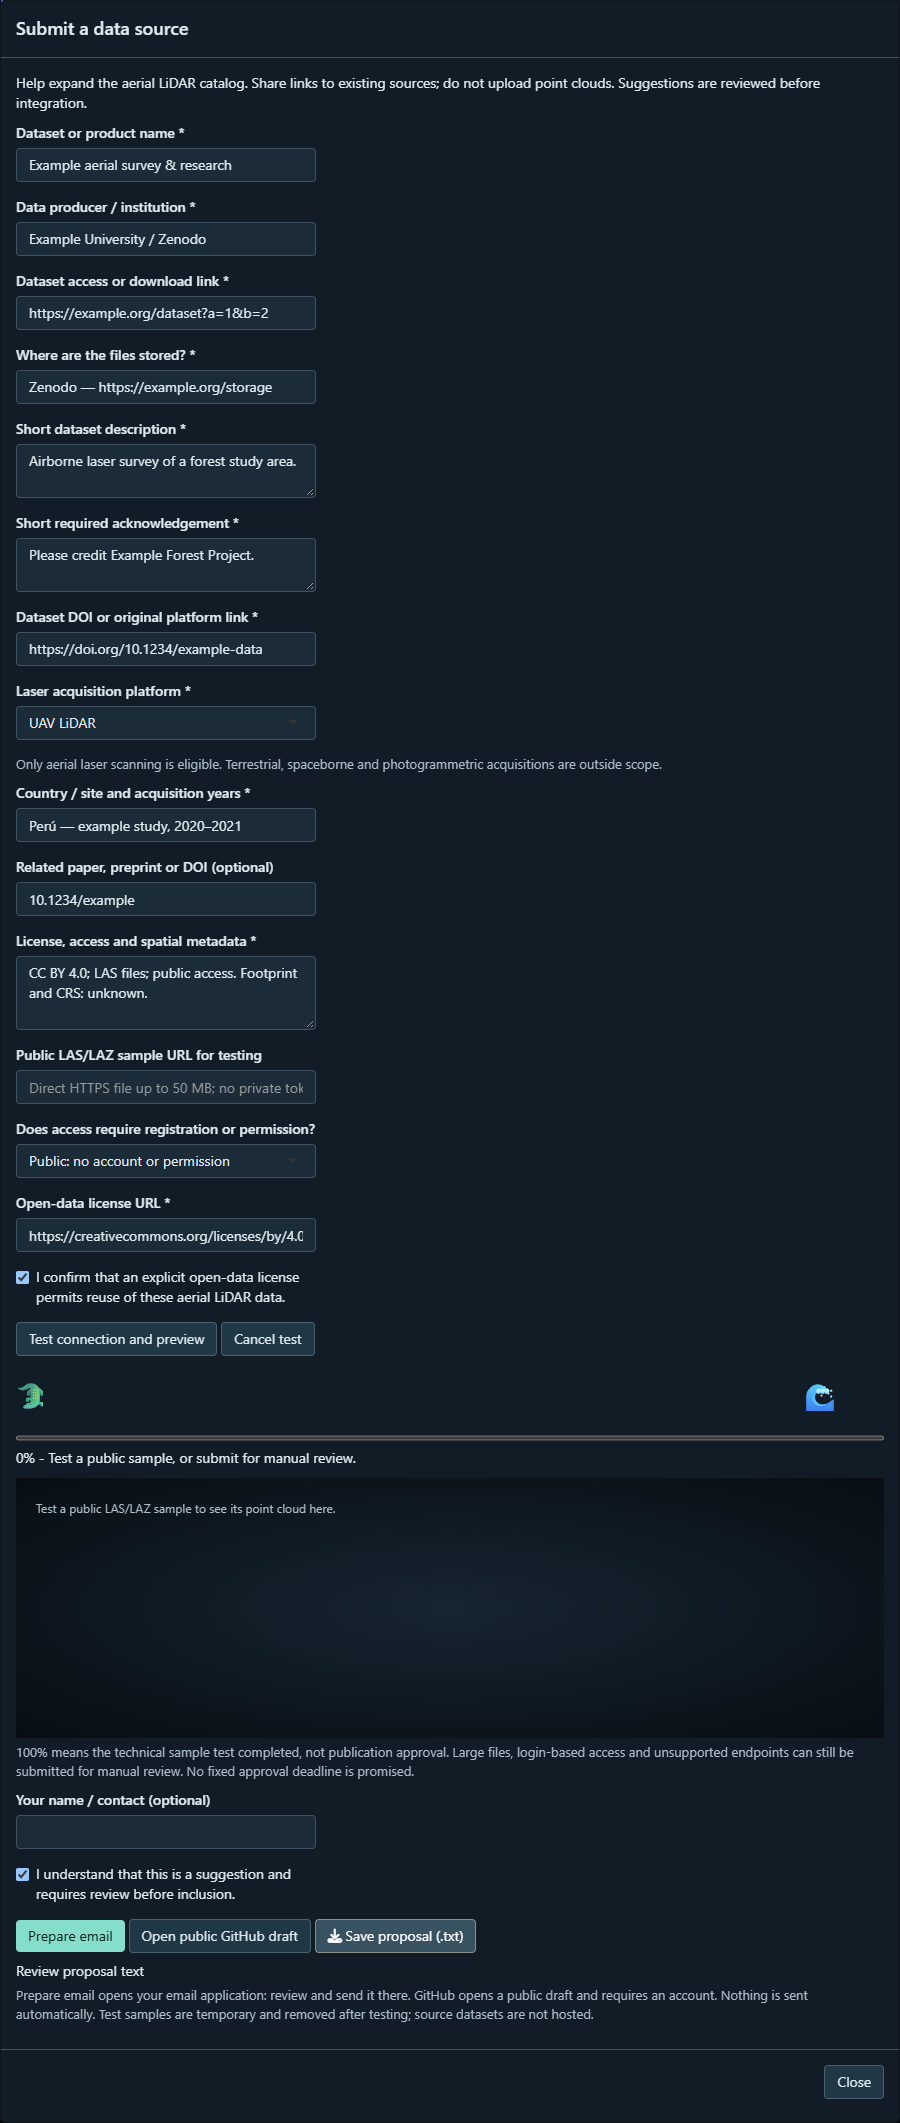
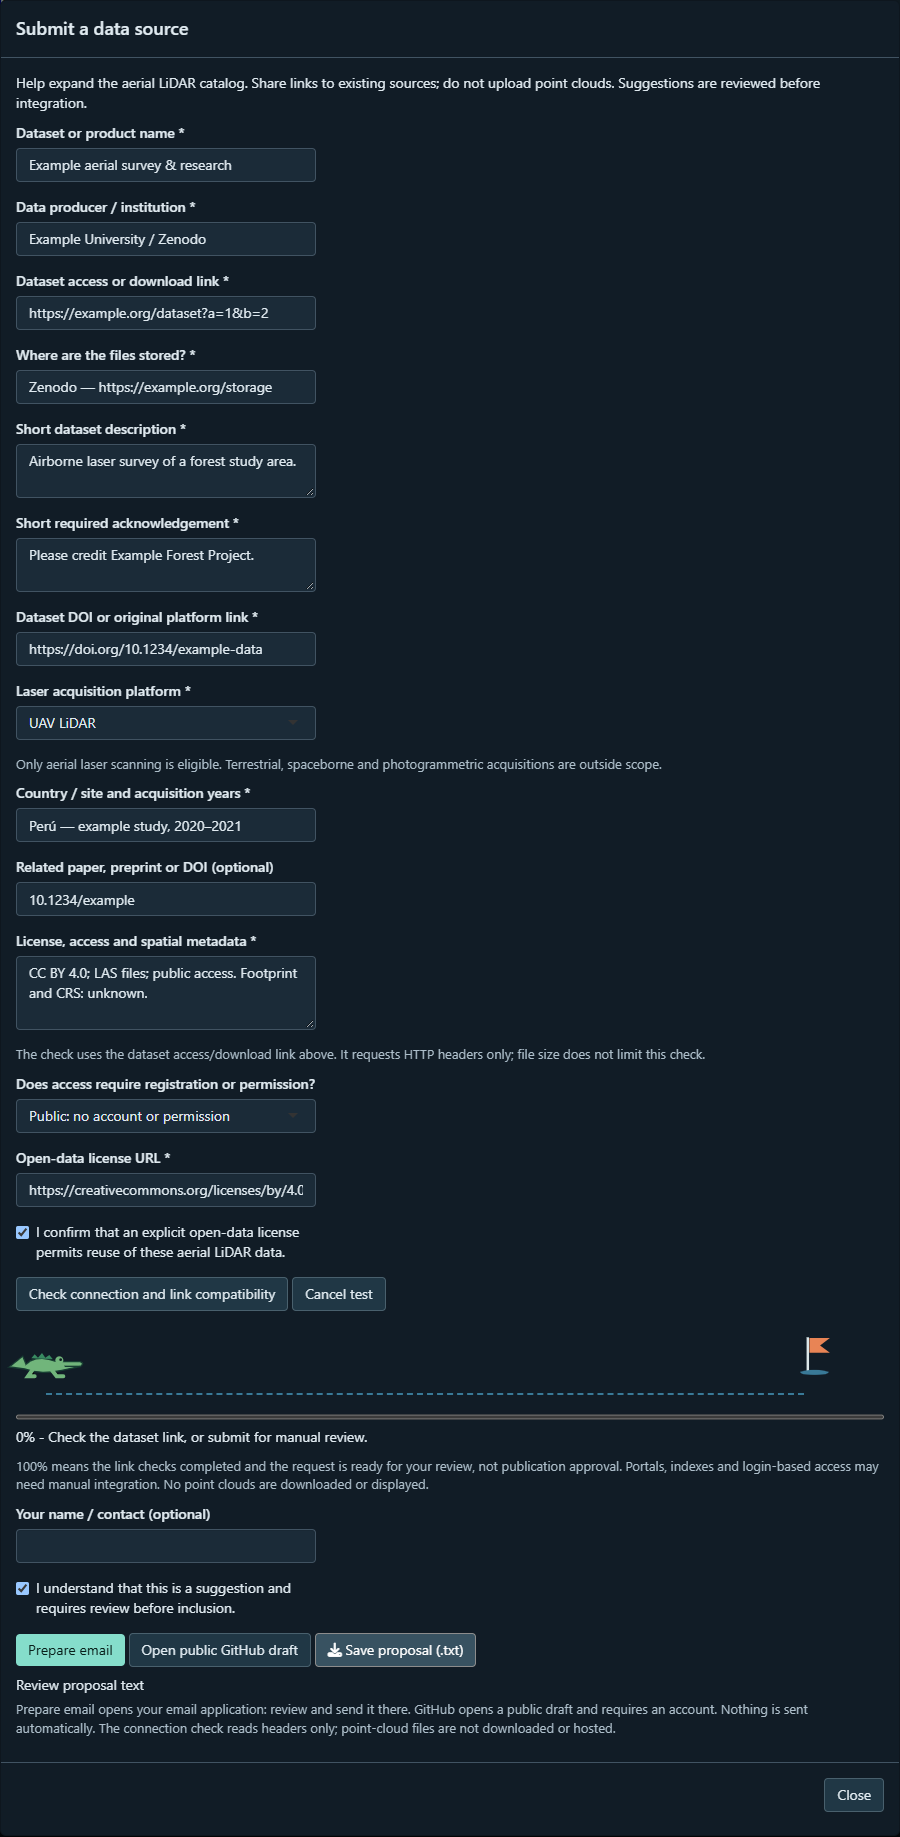
Simplify source preflight to header-only checks with vector alligator

diff --git a/inst/app/www/preview.js b/inst/app/www/preview.js
@@ -13,7 +13,6 @@
     let groups=[],paletteB='Magma',showA=true,showB=true;
     let initialPitch=1.08,pointSize=1.8;
     if(comparison){palette='Grey';paletteB='Black';exag=1;}
-    if(c.id==='als-source-cloud'){exag=1;initialPitch=1.38;}
     function draw() {
       if (!c.clientWidth) return;
       const w=c.clientWidth,h=c.clientHeight,dpr=Math.min(devicePixelRatio||1,2);
@@ -21,7 +20,7 @@
       const ctx=c.getContext('2d');ctx.scale(dpr,dpr);
       if(comparison){ctx.fillStyle='#ffffff';ctx.fillRect(0,0,w,h);}
       ctx.fillStyle=comparison?'#424242':'#adbeca';ctx.font='12px system-ui';
-      if(!points.length){ctx.fillText(comparison?'Choose two overlapping clouds to view together.':c.id==='als-source-cloud'?'Test a public LAS/LAZ sample to see its point cloud here.':'Select a tile to plot, or upload a local point cloud in 3D preview.',20,35);return;}
+      if(!points.length){ctx.fillText(comparison?'Choose two overlapping clouds to view together.':'Select a tile to plot, or upload a local point cloud in 3D preview.',20,35);return;}
       const co=Math.cos(yaw),si=Math.sin(yaw),cp=Math.cos(pitch),sp=Math.sin(pitch);
       let xmin=Infinity,xmax=-Infinity,ymin=Infinity,ymax=-Infinity;
       const ordered=points.map((p,index)=>{
@@ -90,15 +89,7 @@
     const compact=matchMedia('(max-width:850px)');
     function layout(){const sidebar=document.querySelector('.als-sidebar');if(sidebar)sidebar.open=!compact.matches;}
     compact.addEventListener('change',layout);layout();
-    let sourceCanvas=null;
-    Shiny.addCustomMessageHandler('als-points',data=>{
-      const id=data.target||'als-cloud';
-      if(id==='als-source-cloud'){
-        const c=document.getElementById(id);
-        if(c!==sourceCanvas){views[id]?.dispose();delete views[id];sourceCanvas=c;if(c)views[id]=viewer(c);}
-      }
-      views[id]?.load(data);
-    });
+    Shiny.addCustomMessageHandler('als-points',data=>views[data.target||'als-cloud']?.load(data));
     Shiny.addCustomMessageHandler('als-view',data=>views[data.target]?.update(data));
   });
 })();

diff --git a/inst/app/www/explorer.css b/inst/app/www/explorer.css
@@ -8,6 +8,5 @@
 .als-main{overflow-x:clip}
 #compare_status,#compare_gate,#difference_summary{padding:10px 0;overflow-wrap:anywhere}#compare_metadata{white-space:pre-wrap;overflow-wrap:anywhere;background:#14232e;color:#e0eaf0}.selectize-input{overflow-wrap:anywhere}
 
-.source-test-track{position:relative;width:90%;height:40px;margin:12px 14px}.source-test-gator{position:absolute;transition:left .4s ease;font-size:26px;transform:translateX(-50%)}.source-test-lake{position:absolute;right:-28px;font-size:28px}
-
+.source-test-track{position:relative;width:calc(100% - 110px);height:64px;margin:12px 60px 12px 30px;border-bottom:2px dashed #397997}.source-test-gator{position:absolute;top:16px;width:80px;transform:translateX(-50%);transition:left .4s ease}.source-test-lake{position:absolute;right:-30px;top:3px;width:36px}.source-test-gator.walking .gator-legs{transform-origin:center;animation:gator-step .3s ease-in-out infinite alternate}@keyframes gator-step{to{transform:translateY(-3px) rotate(4deg)}}@media(prefers-reduced-motion:reduce){.source-test-gator{transition:none}.source-test-gator.walking .gator-legs{animation:none}}
 #source_test_progress progress{width:100%;height:10px}

diff --git a/tools/approval_metrics.py b/tools/approval_metrics.py
@@ -45,7 +45,7 @@ def main():
         text += f"Approved requests: **{len(durations)}**. Mean: **{statistics.mean(durations):.1f} calendar days**. Median: **{statistics.median(durations):.1f} calendar days**.\n\n"
     else:
         text += "**No recorded approvals yet; an average is not available.**\n\n"
-    text += "Observed turnaround is not a deadline or guarantee. Approval is a maintainer decision; a successful sample test does not approve or publish a source.\n"
+    text += "Observed turnaround is not a deadline or guarantee. Approval is a maintainer decision; a successful connection check does not approve or publish a source.\n"
     Path("docs/APPROVAL_TIMES.md").write_text(text, encoding="utf-8")
 
 

diff --git a/README.md b/README.md
@@ -197,9 +197,9 @@ The form does not send automatically or upload point clouds. Proposals undergo r
 
 ### 4. Submit a data source
 
-Before submitting, contributors can choose **Test connection and preview** using a direct public LAS/LAZ sample (up to 50 MB). The alligator advances through real technical stages toward the lake; 100% means the sample was accessed and decoded into a bounded 3D preview. It does not approve the license, aerial platform, footprint or full-dataset integration. The source remains pending maintainer approval.
+Before submitting, contributors can choose **Check connection and link compatibility**. The app checks the public HTTPS endpoint and its download headers, without transferring or plotting any point cloud. A vector alligator advances toward a flag as the checks complete. **100% means the connection check completed and the request is ready for maintainer review**, not that the data contents or integration have been approved. There is no sample-size limit because no LAS/LAZ file is downloaded.
 
-Provide a LAS/LAZ download or file-index link, storage location, explicit open-data license URL and whether access requires registration or owner permission. Registration and permission requirements are reported for manual review; only openly licensed data are eligible. Larger files or unsupported endpoints can be submitted without a successful preview. Do not include credentials or private signed links.
+Provide a LAS/LAZ download or file-index link, storage location, explicit open-data license URL and whether access requires registration or owner permission. The automatic check currently recognizes direct LAS/LAZ links and filenames declared in download headers. Portals, indexes, redirects and authenticated access can be submitted for manual integration review. Only openly licensed data are eligible. Do not include credentials or private signed links.
 
 [Observed source approval times](docs/APPROVAL_TIMES.md) are reported from GitHub approval events, with no invented average or promised deadline. After review, the maintainer applies the `source-approved` label to the dataset suggestion issue; the report updates automatically. Email-only requests are excluded from this calculation.
 

diff --git a/docs/VALIDATION.md b/docs/VALIDATION.md
@@ -188,3 +188,8 @@ No new LiDAR download was needed, and the README still has exactly three figures
 The public lidR `MixedConifer.laz` example was fetched from its upstream GitHub raw URL, decoded and displayed in the submission modal: 0.25 MB and 18,828 sampled points. This was a technical test only, not a catalog addition or submission. Browser checks confirmed that changing the URL clears the successful result, private hosts are rejected, and no browser errors occurred. Tests also cover credentials, private/mixed DNS addresses and non-HTTPS URLs. The test pins a vetted public IPv4 address, disables redirects, and limits transfers to 50 MB with a known length.
 
 The approval-report calculation was checked with zero approvals and a synthetic 2.5-day approval. Real statistics are produced from GitHub issue approval labels; no synthetic approval is published. License declarations are collected, not legally validated by this technical test.
+
+
+## Link-only contributor check supersedes sample preview - 17 September 2026
+
+The submission pre-test now requests HTTP headers only. Cloud downloading, decoding and plotting were removed from this flow. The vector alligator indicates technical stages; 100% means ready for maintainer review. Unit checks cover a 9 GB declared file without transferring its body, unrecognized links and HTML responses. The earlier sample-preview validation records a superseded implementation. Approval statistics remain separate.

diff --git a/docs/APPROVAL_TIMES.md b/docs/APPROVAL_TIMES.md
@@ -4,4 +4,4 @@ Measured from GitHub issue creation to the first `source-approved` label, for da
 
 **No recorded approvals yet; an average is not available.**
 
-Observed turnaround is not a deadline or guarantee. Approval is a maintainer decision; a successful sample test does not approve or publish a source.
+Observed turnaround is not a deadline or guarantee. Approval is a maintainer decision; a successful connection check does not approve or publish a source.
